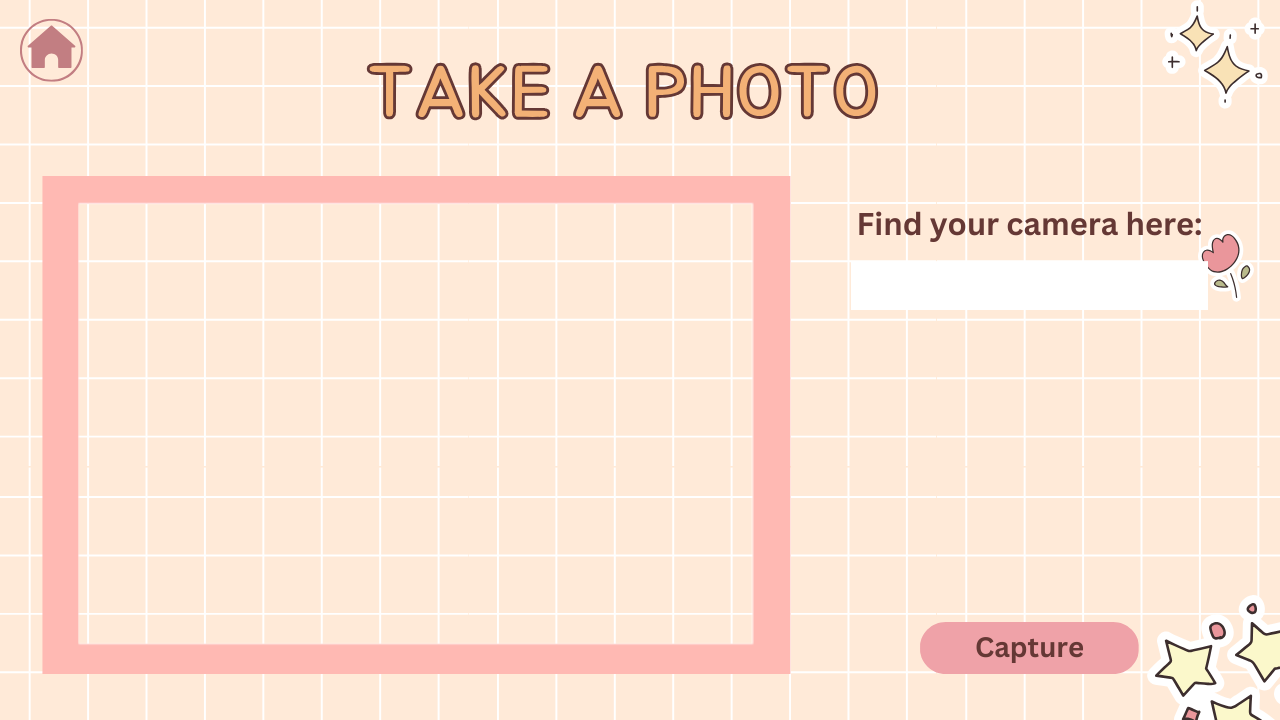
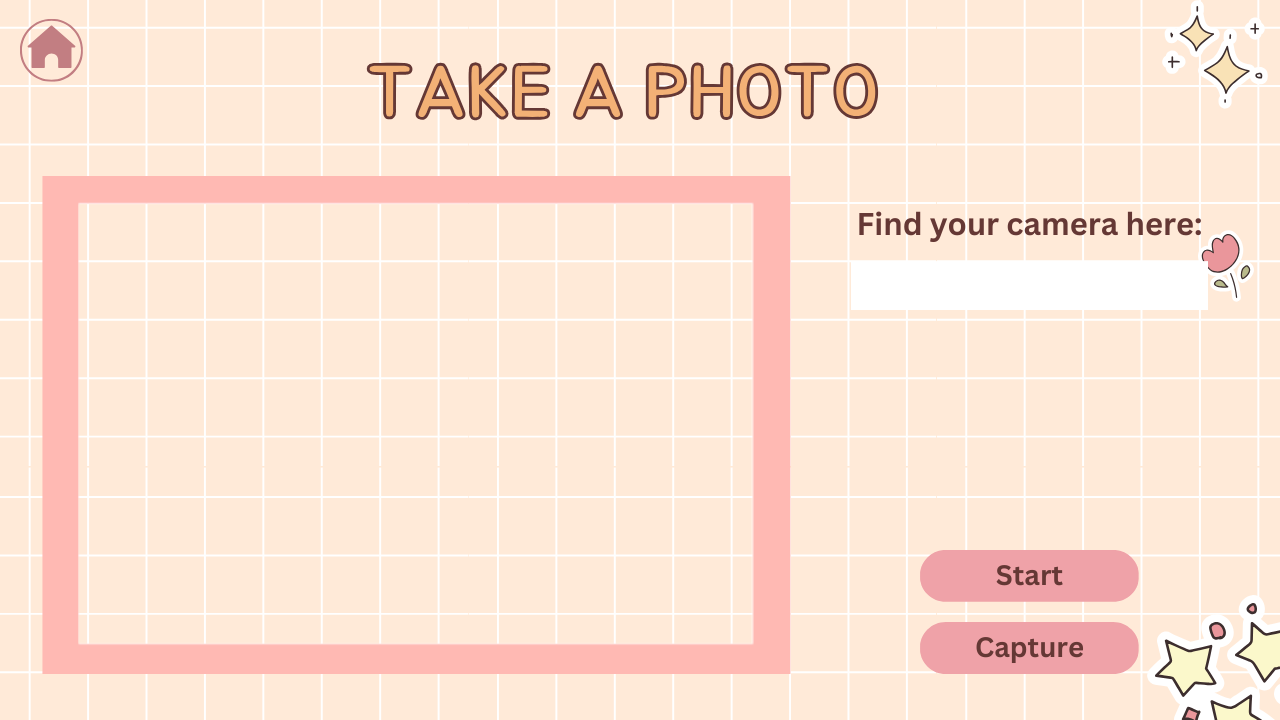
Almost finished with the camera capture logic

Changed region(s): [[0.7188, 0.7639, 0.9062, 0.8556]]

diff --git a/Smart Library Management System/Member Windows/TakeAPhoto.xaml b/Smart Library Management System/Member Windows/TakeAPhoto.xaml
@@ -1,0 +1,49 @@
+<Window x:Class="Smart_Library_Management_System.Member_Windows.TakeAPhoto"
+        xmlns="http://schemas.microsoft.com/winfx/2006/xaml/presentation"
+        xmlns:x="http://schemas.microsoft.com/winfx/2006/xaml"
+        xmlns:d="http://schemas.microsoft.com/expression/blend/2008"
+        xmlns:mc="http://schemas.openxmlformats.org/markup-compatibility/2006"
+        xmlns:local="clr-namespace:Smart_Library_Management_System.Member_Windows"
+        mc:Ignorable="d"
+        Title="TakeAPhoto" Height="720" Width="1280">
+    <Window.Background>
+        <ImageBrush ImageSource="\Pictures\TAKE PHOTO.png"/>
+    </Window.Background>
+    <Grid Loaded="Grid_Loaded">
+        <ComboBox x:Name="cmbCamList"
+        HorizontalAlignment="Left" 
+        Margin="841,247,0,0" 
+        VerticalAlignment="Top" 
+              Width="355" 
+              Height="48"
+              FontSize="20"
+              VerticalContentAlignment="Center"/>
+        <Image x:Name="imgScan"
+        HorizontalAlignment="Left" 
+        Height="428" 
+        Margin="77,191,0,0" 
+        VerticalAlignment="Top" Width="672"/>
+        <Button x:Name="btnHome"
+            HorizontalAlignment="Left" 
+            Margin="19,7,0,0" 
+            VerticalAlignment="Top" 
+            Height="71" 
+            Width="68" 
+            Click="btnHome_Click"
+            Opacity="0.01"/>
+        <Button x:Name="btnCapture" 
+            HorizontalAlignment="Left" 
+            Margin="889,590,0,0" 
+            VerticalAlignment="Top" 
+            Height="52" Width="181"  
+            Click="btnCapture_Click"
+            Opacity="0.01"/>
+        <Button x:Name="btnStart"
+                HorizontalAlignment="Left" 
+                Margin="889,517,0,0" 
+                VerticalAlignment="Top" 
+                Height="52" 
+                Width="181"
+                Opacity="0.01" Click="btnStart_Click"/>
+    </Grid>
+</Window>

diff --git a/Smart Library Management System/Member Windows/TakeAPhoto.xaml.cs b/Smart Library Management System/Member Windows/TakeAPhoto.xaml.cs
@@ -1,0 +1,118 @@
+using System;
+using System.Collections.Generic;
+using System.Linq;
+using System.Text;
+using System.Threading.Tasks;
+using System.Windows;
+using System.Windows.Controls;
+using System.Windows.Data;
+using System.Windows.Documents;
+using System.Windows.Input;
+using System.Windows.Media;
+using System.Windows.Media.Imaging;
+using System.Windows.Shapes;
+using AForge;
+using AForge.Video;
+using AForge.Imaging;
+using AForge.Video.DirectShow;
+using System.Drawing;
+using ZXing;
+using System.Windows.Threading;
+using System.IO;
+
+namespace Smart_Library_Management_System.Member_Windows
+{
+    /// <summary>
+    /// Interaction logic for TakeAPhoto.xaml
+    /// </summary>
+    public partial class TakeAPhoto : Window
+    {
+        private string acc_Id = string.Empty;
+        FilterInfoCollection fic = null;
+        VideoCaptureDevice vcd = null;
+        public TakeAPhoto()
+        {
+            InitializeComponent();
+        }
+        public TakeAPhoto(string acc_ID/*, Borrow_Book_Page window*/)
+        {
+            InitializeComponent();
+            acc_Id = acc_ID;
+            //this.bbpage = window;
+        }
+        private void btnStart_Click(object sender, RoutedEventArgs e)
+        {
+            vcd = new VideoCaptureDevice(fic[cmbCamList.SelectedIndex].MonikerString);
+            vcd.NewFrame += Vcd_NewFrame;
+            vcd.Start();
+        }
+        private void btnCapture_Click(object sender, RoutedEventArgs e)
+        {
+            Bitmap bmp = null;
+            using (MemoryStream stream = new MemoryStream())
+            {
+                BitmapEncoder encoder = new BmpBitmapEncoder();
+                encoder.Frames.Add(BitmapFrame.Create((BitmapSource)imgScan.Source));
+                encoder.Save(stream);
+                bmp = new Bitmap(stream);
+            }
+
+            MessageBox.Show("You successfully took a photo of the book!");
+            Borrow_Book_Page borrow_Book_Page = new Borrow_Book_Page(acc_Id, bmp);
+            borrow_Book_Page.Show();
+            this.Close();
+        }
+        private void Vcd_NewFrame(object sender, NewFrameEventArgs eventArgs)
+        {
+            this.Dispatcher.Invoke(() =>
+            {
+                imgScan.Source = System.Windows.Interop.Imaging.CreateBitmapSourceFromHBitmap(
+                        ((Bitmap)eventArgs.Frame.Clone()).GetHbitmap(),
+                        IntPtr.Zero,
+                        System.Windows.Int32Rect.Empty,
+                        BitmapSizeOptions.FromWidthAndHeight((int)imgScan.Width, (int)imgScan.Height));
+            });
+        }
+        private void btnHome_Click(object sender, RoutedEventArgs e)
+        {
+            Borrow_Book_Page b = new Borrow_Book_Page(acc_Id);
+            b.Show();
+            this.Close();
+        }
+        private void Grid_Loaded(object sender, RoutedEventArgs e)
+        {
+            fic = new FilterInfoCollection(FilterCategory.VideoInputDevice);
+            foreach (FilterInfo fi in fic)
+                cmbCamList.Items.Add(fi.Name);
+            cmbCamList.SelectedIndex = 0;
+            vcd = new VideoCaptureDevice();
+        }
+        private void Window_Closing(object sender, System.ComponentModel.CancelEventArgs e)
+        {
+            if (vcd.IsRunning)
+            {
+                StopCameraWorking();
+            }
+        }
+        private void StopCameraWorking()
+        {
+            vcd.SignalToStop();
+            vcd = null;
+            GC.WaitForPendingFinalizers();
+            GC.Collect();
+        }
+        private byte[] BitmapImageToByteArray(BitmapSource bitmapSource)
+        {
+            byte[] byteArray;
+            using (MemoryStream ms = new MemoryStream())
+            {
+                BitmapEncoder encoder = new PngBitmapEncoder();
+                encoder.Frames.Add(BitmapFrame.Create(bitmapSource));
+                encoder.Save(ms);
+                byteArray = ms.ToArray();
+            }
+            return byteArray;
+        }
+
+    }
+}

diff --git a/Smart Library Management System/Member Windows/Borrow Book Page.xaml.cs b/Smart Library Management System/Member Windows/Borrow Book Page.xaml.cs
@@ -3,6 +3,7 @@ using Smart_Library_Management_System.Member_Windows;
 using Smart_Library_Management_System.Models;
 using System;
 using System.Collections.Generic;
+using System.Drawing;
 using System.IO;
 using System.Linq;
 using System.Text;
@@ -23,6 +24,7 @@ namespace Smart_Library_Management_System
     /// </summary>
     public partial class Borrow_Book_Page : Window
     {
+        private Bitmap imageCaptured = null;
         SLMSDataContext libContext = null;
         private string Acc_ID = "";
         private string decodedMessage = string.Empty;
@@ -39,6 +41,18 @@ namespace Smart_Library_Management_System
         {
             InitializeComponent();
             Acc_ID = acc_id;
+            var BooksList = from books in Connections._slms.Books
+                            orderby books.Title
+                            select books.Title;
+
+            lbBooks.ItemsSource = BooksList.ToList();
+        }
+        public Borrow_Book_Page(string acc_id, Bitmap image)
+        {
+            InitializeComponent();
+            Acc_ID = acc_id;
+            imageCaptured = image;
+
             var BooksList = from books in Connections._slms.Books
                             orderby books.Title
                             select books.Title;
@@ -66,7 +80,6 @@ namespace Smart_Library_Management_System
 
 
         }
-
         private void btnUpload_Click(object sender, RoutedEventArgs e)
         {
             OpenFileDialog openDialog = new OpenFileDialog();
@@ -80,7 +93,12 @@ namespace Smart_Library_Management_System
         }
         private void btnTakeAPhoto_Click(object sender, RoutedEventArgs e)
         {
-            MessageBox.Show("Take A Photo");
+            TakeAPhoto takeAPhoto = new TakeAPhoto(Acc_ID);   
+
+            if(imageCaptured != null)
+            {
+                imagePicture.Source = imageCaptured;
+            }
         }
         private void btnSubmit_Click(object sender, RoutedEventArgs e)
         {

diff --git a/Smart Library Management System/Admin Windows/Book List Admin Page.xaml.cs b/Smart Library Management System/Admin Windows/Book List Admin Page.xaml.cs
@@ -5,19 +5,11 @@ using System.Collections.Generic;
 using System.Drawing;
 using System.IO;
 using System.Linq;
-using System.Text;
-using System.Threading.Tasks;
 using System.Windows;
 using System.Windows.Controls;
-using System.Windows.Data;
-using System.Windows.Documents;
-using System.Windows.Input;
 using System.Windows.Interop;
-using System.Windows.Media;
 using System.Windows.Media.Imaging;
-using System.Windows.Shapes;
 using ZXing;
-using ZXing.QrCode;
 
 namespace Smart_Library_Management_System
 {

diff --git a/Smart Library Management System/Member Windows/FindBook.xaml.cs b/Smart Library Management System/Member Windows/FindBook.xaml.cs
@@ -17,7 +17,6 @@ using AForge.Imaging;
 using AForge.Video.DirectShow;
 using System.Drawing;
 using ZXing;
-using static System.Net.Mime.MediaTypeNames;
 using System.Windows.Threading;
 using System.IO;
 
